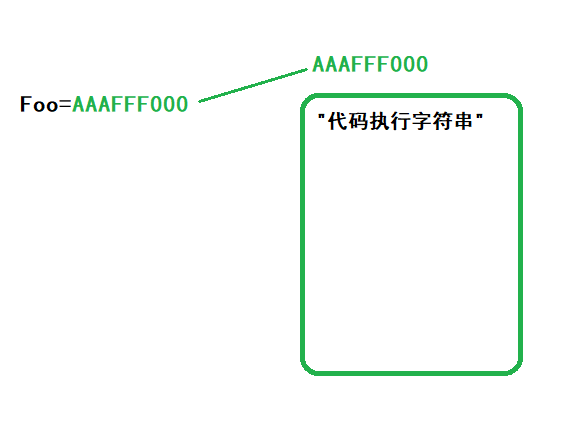
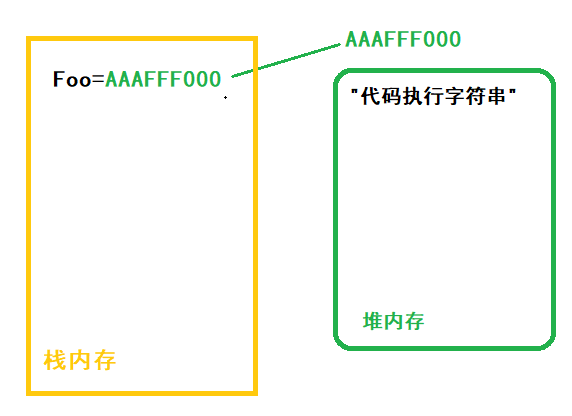
fix: 函数运行内存图完善

Changed region(s): [[0.0297, 0.0625, 0.9808, 0.9688]]

diff --git a/js/node/一道面向对象的面试题(阿里).md b/js/node/一道面向对象的面试题(阿里).md
@@ -69,14 +69,23 @@ new new Foo().getName(); // 3
 ``` js
 // 第一个function Foo() { ... }，function关键字，声明+定义
 Foo = AAAFFFOOO  // 这里的AAAFFFOOO假设是Function对象在堆内存中的引用地址
-
+```
+当前内存图：
+ ![函数执行图](../img/FooStep1.png "FooStep1")
+``` js
 // 第一个var getName = ... ,var关键字只声明
 getName = undefined // 再次再强调一遍，var只声明，不定义，所以此时getName的值是undefined
-
+```
+当前内存图：
+ ![函数执行图](../img/FooStep2.png "FooStep2")
+``` js
 // 第二个function getName() { ... }，function关键字，声明+定义。但是发现getName变量已经在上一步被声明，所以只需要定义就行，即赋值即可
 getName = func=>5 // 这里是伪代码，func=>5表示输出5的那个方法在堆内存中的引用地址，后续将全部按照这种写法
 ```
-至此，变量提升完毕！我们可以看到的是，目前***全局的getName指向的是func=>5***
+至此，变量提升完毕！我们可以看到的是，目前***全局的getName指向的是func=>5*** 
+
+当前内存图：
+ ![函数执行图](../img/FooStep3.png "FooStep3")
 
 **2、接下来第二步（代码执行）：** 我们一句一句来看
 
@@ -89,10 +98,45 @@ function Foo() {
     return this;
 }
  ```
- 变量提升阶段已完成，当前内存图如下：
+ 变量提升阶段已完成，跳过，当前内存图如下：
+ ![函数执行图](../img/FooStep4.png "FooStep4")
 
  第二句
+ ``` js
+ Foo.getName = function () {
+    console.log(2);
+}
+ ```
+ 为Foo添加属性getName，该属性也是一个引用类型，当前内存图如下：
+  ![函数执行图](../img/FooStep5.png "FooStep5")
+第三句
+``` js
+Foo.prototype.getName = function () {
+    console.log(3);
+}
+```
+为Foo的原型对象(prototype)添加属性getName，该属性也是一个引用类型，当前内存图如下：
+  ![函数执行图](../img/FooStep6.png "FooStep6")
+第四句
+``` js
+var getName = function () {
+    console.log(4);
+}
+```
+变量提升阶段已完成，跳过，内存图不变，同上一步。
 
+第五句
+``` js
+function getName() {
+    console.log(5);
+}
+```
+变量提升阶段已完成，跳过，内存图不变，同上一步。
+
+第六句
+``` js
+
+```
  
 
 
